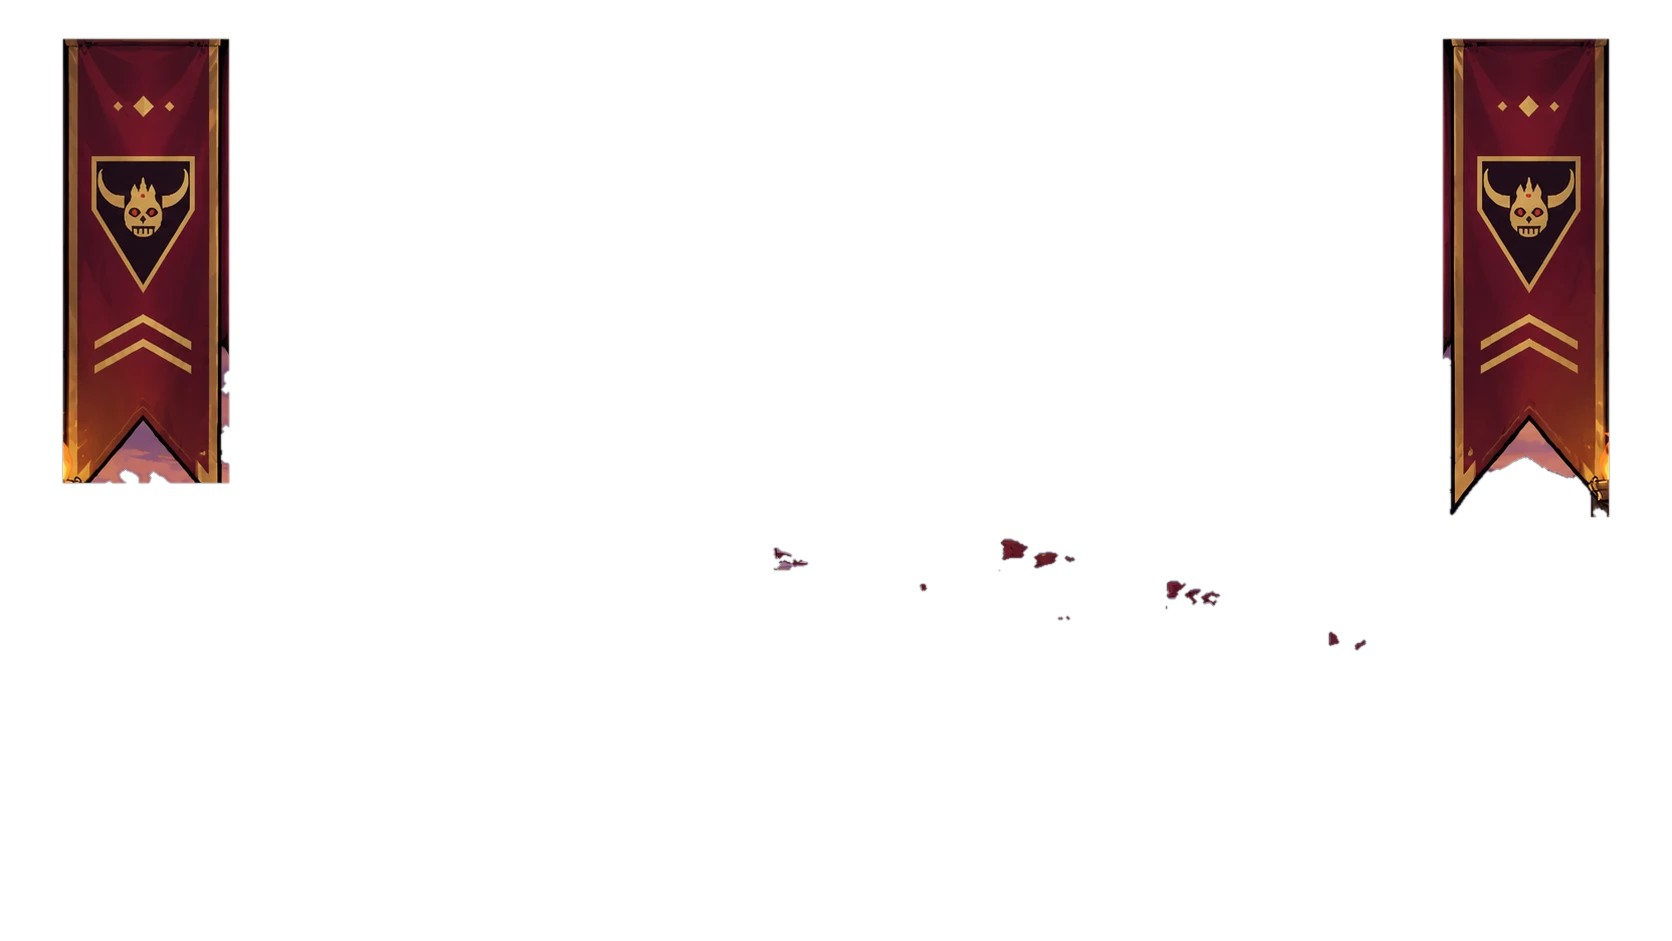
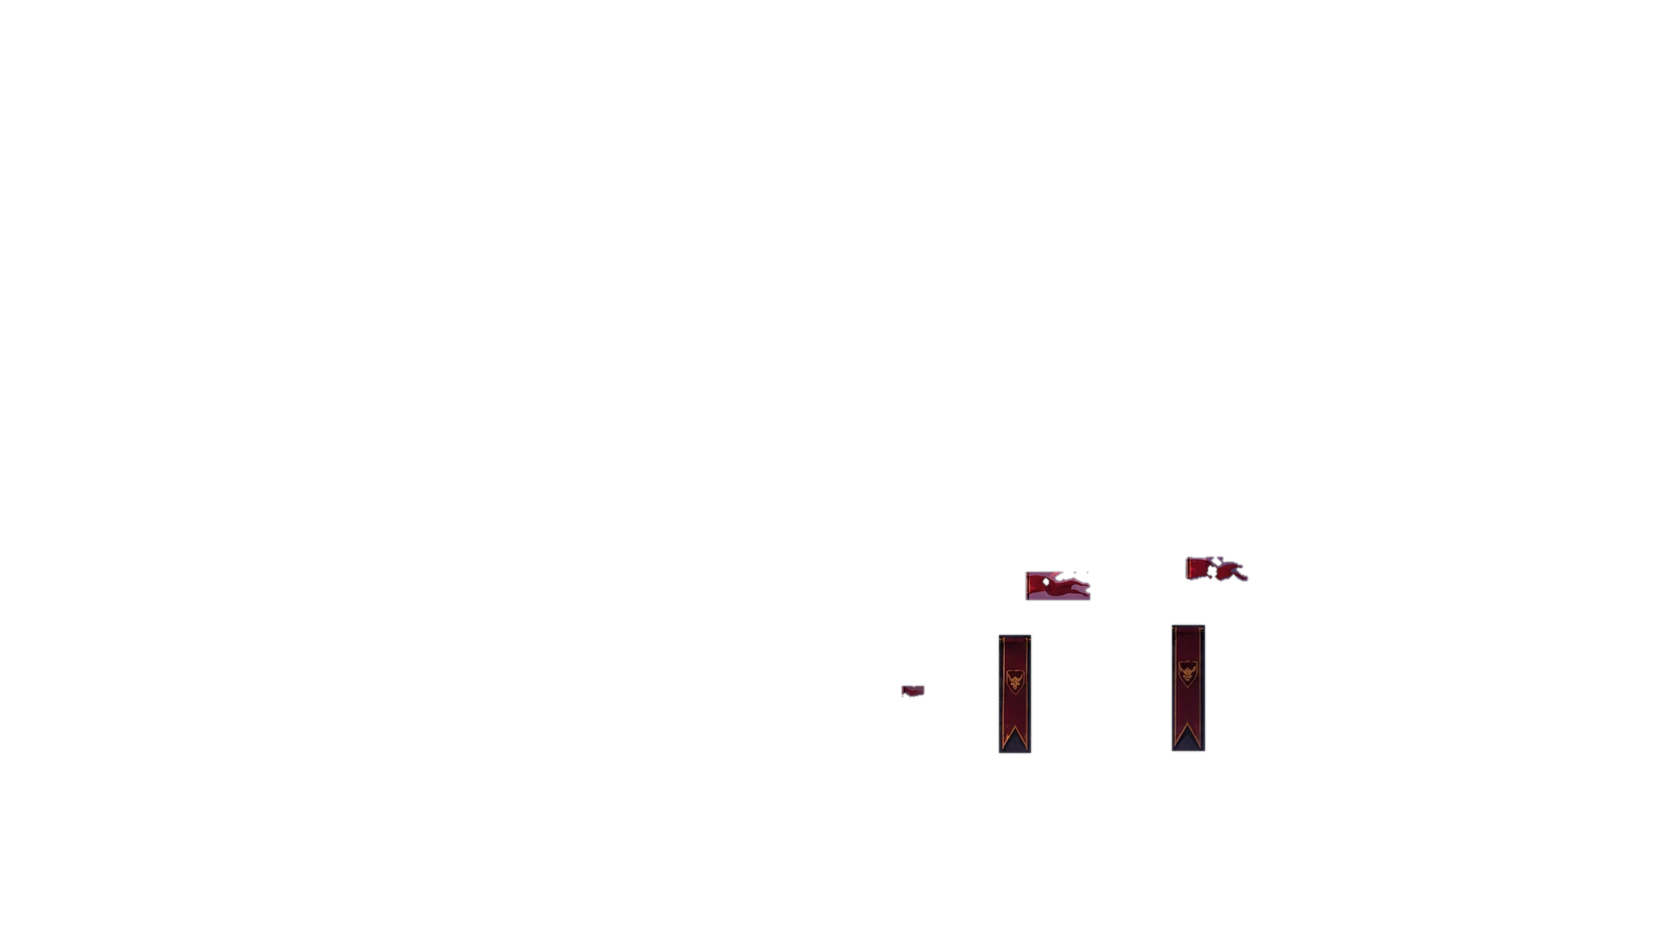
[UI] 타이틀 배경을 새 노을 성 그림으로 교체 — 탑 문장 깃발·꼭대기 깃발·횃불·창문 불빛·안개·해 빛 움직임

diff --git a/Assets/01.Scripts/UIBridge/TitleScreen.cs b/Assets/01.Scripts/UIBridge/TitleScreen.cs
@@ -51,6 +51,8 @@ namespace OZGL2.UIBridge
         private float _dragonNext;
         private RectTransform _paintRoot;     // 그려 둔 배경(그림 크기에 맞춰 화면을 덮는다)
         private Image _paintSun;
+        private readonly List<(RectTransform rt, float phase)> _hangings = new List<(RectTransform, float)>();     // 탑 벽에 걸린 깃발(위가 고정, 아주 살짝 흔들림)
+        private readonly List<(RectTransform rt, Image img, float baseX, float baseY, float phase, float speed)> _mist = new List<(RectTransform, Image, float, float, float, float)>();
         private readonly List<(RectTransform rt, float phase)> _flames = new List<(RectTransform, float)>();
         private readonly List<(RectTransform rt, Image img, float phase, float speed)> _sparkles = new List<(RectTransform, Image, float, float)>();
         private readonly List<(RectTransform rt, float phase, float baseX, float baseY, float speed)> _birds = new List<(RectTransform, float, float, float, float)>();
@@ -1201,6 +1203,19 @@ namespace OZGL2.UIBridge
             }
             if (_logoGlow != null) _logoGlow.color = new Color(1f, 0.70f, 0.38f, 0.34f + 0.08f * Mathf.Sin(t * 1.3f));
             if (_sun != null) _sun.localScale = Vector3.one * (1f + Mathf.Sin(t * 0.7f) * 0.025f);
+            for (int i = 0; i < _hangings.Count; i++)
+            {
+                var h = _hangings[i];
+                h.rt.localRotation = Quaternion.Euler(0f, 0f, Mathf.Sin(t * 1.3f + h.phase) * 0.9f);
+                h.rt.localScale = new Vector3(1f + Mathf.Sin(t * 2.1f + h.phase) * 0.018f, 1f, 1f);
+            }
+            for (int i = 0; i < _mist.Count; i++)
+            {
+                var m = _mist[i];
+                float drift = Mathf.Sin(t * 0.05f * (m.speed / 20f) + m.phase) * m.speed * 6f;   // 느리게 오가며 흐른다
+                m.rt.anchorMin = m.rt.anchorMax = new Vector2((m.baseX + drift) / PaintW, 1f - m.baseY / PaintH);
+                m.img.color = new Color(0.78f, 0.56f, 0.70f, 0.07f + 0.04f * (0.5f + 0.5f * Mathf.Sin(t * 0.3f + m.phase)));
+            }
             if (_paintSun != null)
             {
                 float pulse = 0.5f + 0.5f * Mathf.Sin(t * 0.8f);
@@ -1213,23 +1228,26 @@ namespace OZGL2.UIBridge
 
         private const float PaintW = 1672f, PaintH = 941f;   // 배경 그림 크기(픽셀). 아래 좌표는 모두 이 그림 기준이다.
 
-        /// <summary>움직이는 조각(깃발·문장 깃발)의 그림 속 위치(왼쪽·위·오른쪽·아래 픽셀)와 걸린 쪽(피벗).</summary>
+        /// <summary>움직이는 조각(성탑 문장 깃발·꼭대기 깃발)의 그림 속 위치(왼쪽·위·오른쪽·아래 픽셀)와 걸린 쪽(피벗).</summary>
         private static readonly (float x0, float y0, float x1, float y1, Vector2 pivot, bool banner, float phase)[] PaintPieces =
         {
-            (60f, 36f, 232f, 486f, new Vector2(0.5f, 1f), true, 0f),            // 왼쪽 문장 깃발
-            (1440f, 36f, 1612f, 520f, new Vector2(0.5f, 1f), true, 1.7f),       // 오른쪽 문장 깃발
-            (772f, 546f, 826f, 572f, new Vector2(0f, 0.5f), false, 0.4f),       // 성탑 깃발들(깃대 쪽이 왼쪽)
-            (997f, 536f, 1100f, 580f, new Vector2(0f, 0.5f), false, 2.1f),
-            (1164f, 576f, 1243f, 611f, new Vector2(0f, 0.5f), false, 3.7f),
-            (1326f, 628f, 1381f, 654f, new Vector2(0f, 0.5f), false, 5.2f),
+            (996f, 632f, 1034f, 756f, new Vector2(0.5f, 1f), true, 0.3f),       // 왼쪽 탑 벽에 걸린 붉은 문장 깃발(위가 고정)
+            (1169f, 622f, 1208f, 754f, new Vector2(0.5f, 1f), true, 1.9f),      // 오른쪽 탑 벽의 문장 깃발
+            (1024f, 570f, 1092f, 602f, new Vector2(0f, 0.5f), false, 0.4f),     // 탑 꼭대기 깃발(깃대 쪽이 왼쪽)
+            (1184f, 555f, 1252f, 584f, new Vector2(0f, 0.5f), false, 2.3f),
+            (900f, 684f, 926f, 700f, new Vector2(0f, 0.5f), false, 4.1f),       // 멀리 있는 작은 깃발
         };
 
-        /// <summary>일렁이는 불빛(횃불·창문·성문·마을)의 그림 속 가운데 픽셀과 크기(화면 단위).</summary>
+        /// <summary>일렁이는 불빛(횃불·성문·창문·마을)의 그림 속 가운데 픽셀과 크기(화면 단위).</summary>
         private static readonly (float x, float y, float size)[] PaintLights =
         {
-            (45f, 455f, 230f), (1612f, 462f, 230f),                                     // 양쪽 횃불
-            (1086f, 746f, 110f), (899f, 717f, 70f), (949f, 715f, 70f), (1013f, 680f, 70f),   // 성문·성 창문
-            (480f, 776f, 90f), (288f, 854f, 80f), (138f, 846f, 80f), (349f, 822f, 70f), (1539f, 846f, 80f), (81f, 779f, 70f),   // 마을·풍차
+            (45f, 462f, 240f), (1612f, 462f, 240f),                                                   // 양쪽 횃불
+            (1098f, 765f, 150f),                                                                       // 성문
+            (1061f, 722f, 56f), (1137f, 722f, 56f), (929f, 761f, 64f), (830f, 730f, 50f),              // 성 창문
+            (1270f, 741f, 44f), (1295f, 744f, 44f), (1328f, 716f, 48f), (1446f, 736f, 44f), (1386f, 759f, 44f),
+            (390f, 773f, 52f), (326f, 796f, 56f), (334f, 817f, 56f), (374f, 825f, 44f),               // 풍차 마을
+            (477f, 838f, 50f), (506f, 838f, 50f), (523f, 837f, 46f), (569f, 826f, 50f), (576f, 844f, 50f),
+            (543f, 867f, 46f), (427f, 821f, 44f), (459f, 821f, 44f), (516f, 820f, 44f), (618f, 849f, 44f),
         };
 
         /// <summary>
@@ -1259,7 +1277,18 @@ namespace OZGL2.UIBridge
             // 해 빛(수평선의 해 자리에서 은은히 맥동)
             _paintSun = NewImage("SunPulse", _paintRoot, _glow, new Color(1f, 0.72f, 0.38f, 0.28f));
             _paintSun.raycastTarget = false;
-            PlaceOnPaint(_paintSun.rectTransform, 690f, 525f, 520f);
+            PlaceOnPaint(_paintSun.rectTransform, 805f, 545f, 640f);
+
+            // 골짜기 위로 천천히 흘러가는 옅은 안개(자연스러운 공기감)
+            for (int i = 0; i < 4; i++)
+            {
+                var mist = NewImage("Mist", _paintRoot, _glow, new Color(0.78f, 0.56f, 0.70f, 0.10f));
+                mist.raycastTarget = false;
+                float y = 640f + i * 55f;
+                PlaceOnPaint(mist.rectTransform, 700f + i * 180f, y, 100f);
+                mist.rectTransform.sizeDelta = new Vector2(900f, 130f);
+                _mist.Add((mist.rectTransform, mist, 700f + i * 180f, y, Random.Range(0f, 6.28f), 18f + i * 7f));
+            }
 
             // 불빛 일렁임
             foreach (var l in PaintLights)
@@ -1283,7 +1312,7 @@ namespace OZGL2.UIBridge
                     rt.anchorMax = new Vector2(piece.x1 / PaintW, 1f - piece.y0 / PaintH);
                     rt.offsetMin = rt.offsetMax = Vector2.zero;
                     rt.pivot = piece.pivot;
-                    if (piece.banner) _banners.Add((rt, piece.phase)); else _flags.Add((rt, piece.phase));
+                    if (piece.banner) _hangings.Add((rt, piece.phase)); else _flags.Add((rt, piece.phase));
                 }
             return true;
         }
